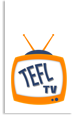
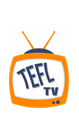
update color

Changed region(s): [[0.1013, 0.24, 0.8861, 0.864], [0.0253, 0.0, 0.9114, 0.912]]

diff --git a/public/css/myStyle.css b/public/css/myStyle.css
@@ -426,7 +426,7 @@ span .ad {
 .brandingHeader {
     width: 100%;
     height: 60px;
-    background: #494848;
+    background: #1f3359;
     margin-top: 0;
 }
 
@@ -487,7 +487,7 @@ img.logo-sm {
 
 .categoryNav {
     width: 100%;
-    background: #F0AD4E;
+    background: #d1dff9;
     display: block;
     height: 30px;
     z-index: 22; 
@@ -514,7 +514,7 @@ img.logo-sm {
 
 .ctgryNav li a {
     font-size: 1.0em;
-    color: #fff;
+    color: #3b5a9b;
     text-shadow: none!important;
 
 }
@@ -721,10 +721,13 @@ img.user {
     width: 100%!important;
     font-size: 16px;
     color: #fff;
-    background: #F0AD4E;
+    background: #d9edf7;
     padding: 10px 10px;
     text-align: center;
     margin-top: 0;
+    border: 1px solid #bce8f1;
+    color: #474747;
+    font-weight: bold;
 }
 
 .a-title {
@@ -1121,7 +1124,7 @@ center;     margin: 0 auto; }
 }
 
 .footer1 {
-    background: #454545;
+    background: #181B2E;
     width: 100%;
     text-align: left;
     height: auto;
@@ -1138,7 +1141,7 @@ center;     margin: 0 auto; }
 }
 
 .footer2 {
-    background: #383838;
+    background: #1C2035;
     width: 100%;
     min-height: 30px;
     height: auto;

diff --git a/app/views/users/upload.blade.php b/app/views/users/upload.blade.php
@@ -143,7 +143,11 @@
 								{{Form::label('Category:')}}<br>
 								<span class="span-tags">
 									{{Form::checkbox('cat[]','Instructional',false,['id'=>'instruct'])}}
-									<label for='instruct'>Instructional</label>
+									<label for='instruct'>Teachers Instructional</label>
+								</span>
+								<span class="span-tags">
+									{{Form::checkbox('cat[]','Music Video',false,['id'=>'music-vid'])}}
+									<label for='music-vid'>Students Instructional</label>
 								</span>
 								<span class="span-tags">
 									{{Form::checkbox('cat[]','Video Blog',false,['id'=>'vid-blog'])}}
@@ -161,10 +165,7 @@
 									{{Form::checkbox('cat[]','Music',false,['id'=>'music'])}}
 									<label for='music'>Music</label>
 								</span>
-								<span class="span-tags">
-									{{Form::checkbox('cat[]','Music Video',false,['id'=>'music-vid'])}}
-									<label for='music-vid'>Music Video</label>
-								</span>
+								
 								<span class="span-tags">
 									{{Form::checkbox('cat[]','Animated Video',false,['id'=>'anim-vid'])}}
 									<label for='anim-vid'>Animated Video</label>

diff --git a/app/views/homes/category.blade.php b/app/views/homes/category.blade.php
@@ -14,6 +14,7 @@ Category: {{$category}} - TEFL-tv
 							<a href="{{route('homes.watch-video', array($video->file_name))}}" class="thumbnail-h">
 								<div class="thumbnail-2"> 
 									<img class="hvr-grow-rotate" src="{{asset($video->thumbnail)}}">
+									<div class="play-hover"><img src="/img/icons/play-btn.png" /> </div>
 								</div>
 								<div class="video-info">
 									<div class="v-Info">
@@ -25,6 +26,7 @@ Category: {{$category}} - TEFL-tv
 										<i class="fa fa-eye"></i> {{$video->views}} | <i class="fa fa-thumbs-up"></i>  {{$video->likes}} | <i class="fa fa-calendar"></i> {{date('F d, Y',strtotime($video->created_at))}}
 									</div>
 								</div>
+								
 							</a>
 						</div>	
 					</div>
@@ -45,6 +47,7 @@ Category: {{$category}} - TEFL-tv
 										<i class="fa fa-eye"></i> {{$video->views}} | <i class="fa fa-thumbs-up"></i> {{$video->likes}} | <i class="fa fa-calendar"></i> {{date('F d, Y',strtotime($video->created_at))}}
 									</div>
 								</div>
+
 							</a>	
 						</div>
 					</div>

diff --git a/app/controllers/UserController.php b/app/controllers/UserController.php
@@ -237,7 +237,7 @@ class UserController extends BaseController {
 			$usersWebsite = Website::where('user_id', Auth::User()->id)->first();
 			$picture = public_path('img/user/') . Auth::User()->id . '.jpg';
 			$subscriberProfile = $this->Subscribe->Subscribers($this->Auth->id, 6);
-			return $subscriberProfile;
+			// return $subscriberProfile;
 			$subscriptionProfile = $this->Subscribe->Subscriptions($this->Auth->id, 6);
 			$usersVideos = $this->Video->getVideos($this->Auth->id, null,8);
 			// return $usersVideos;
